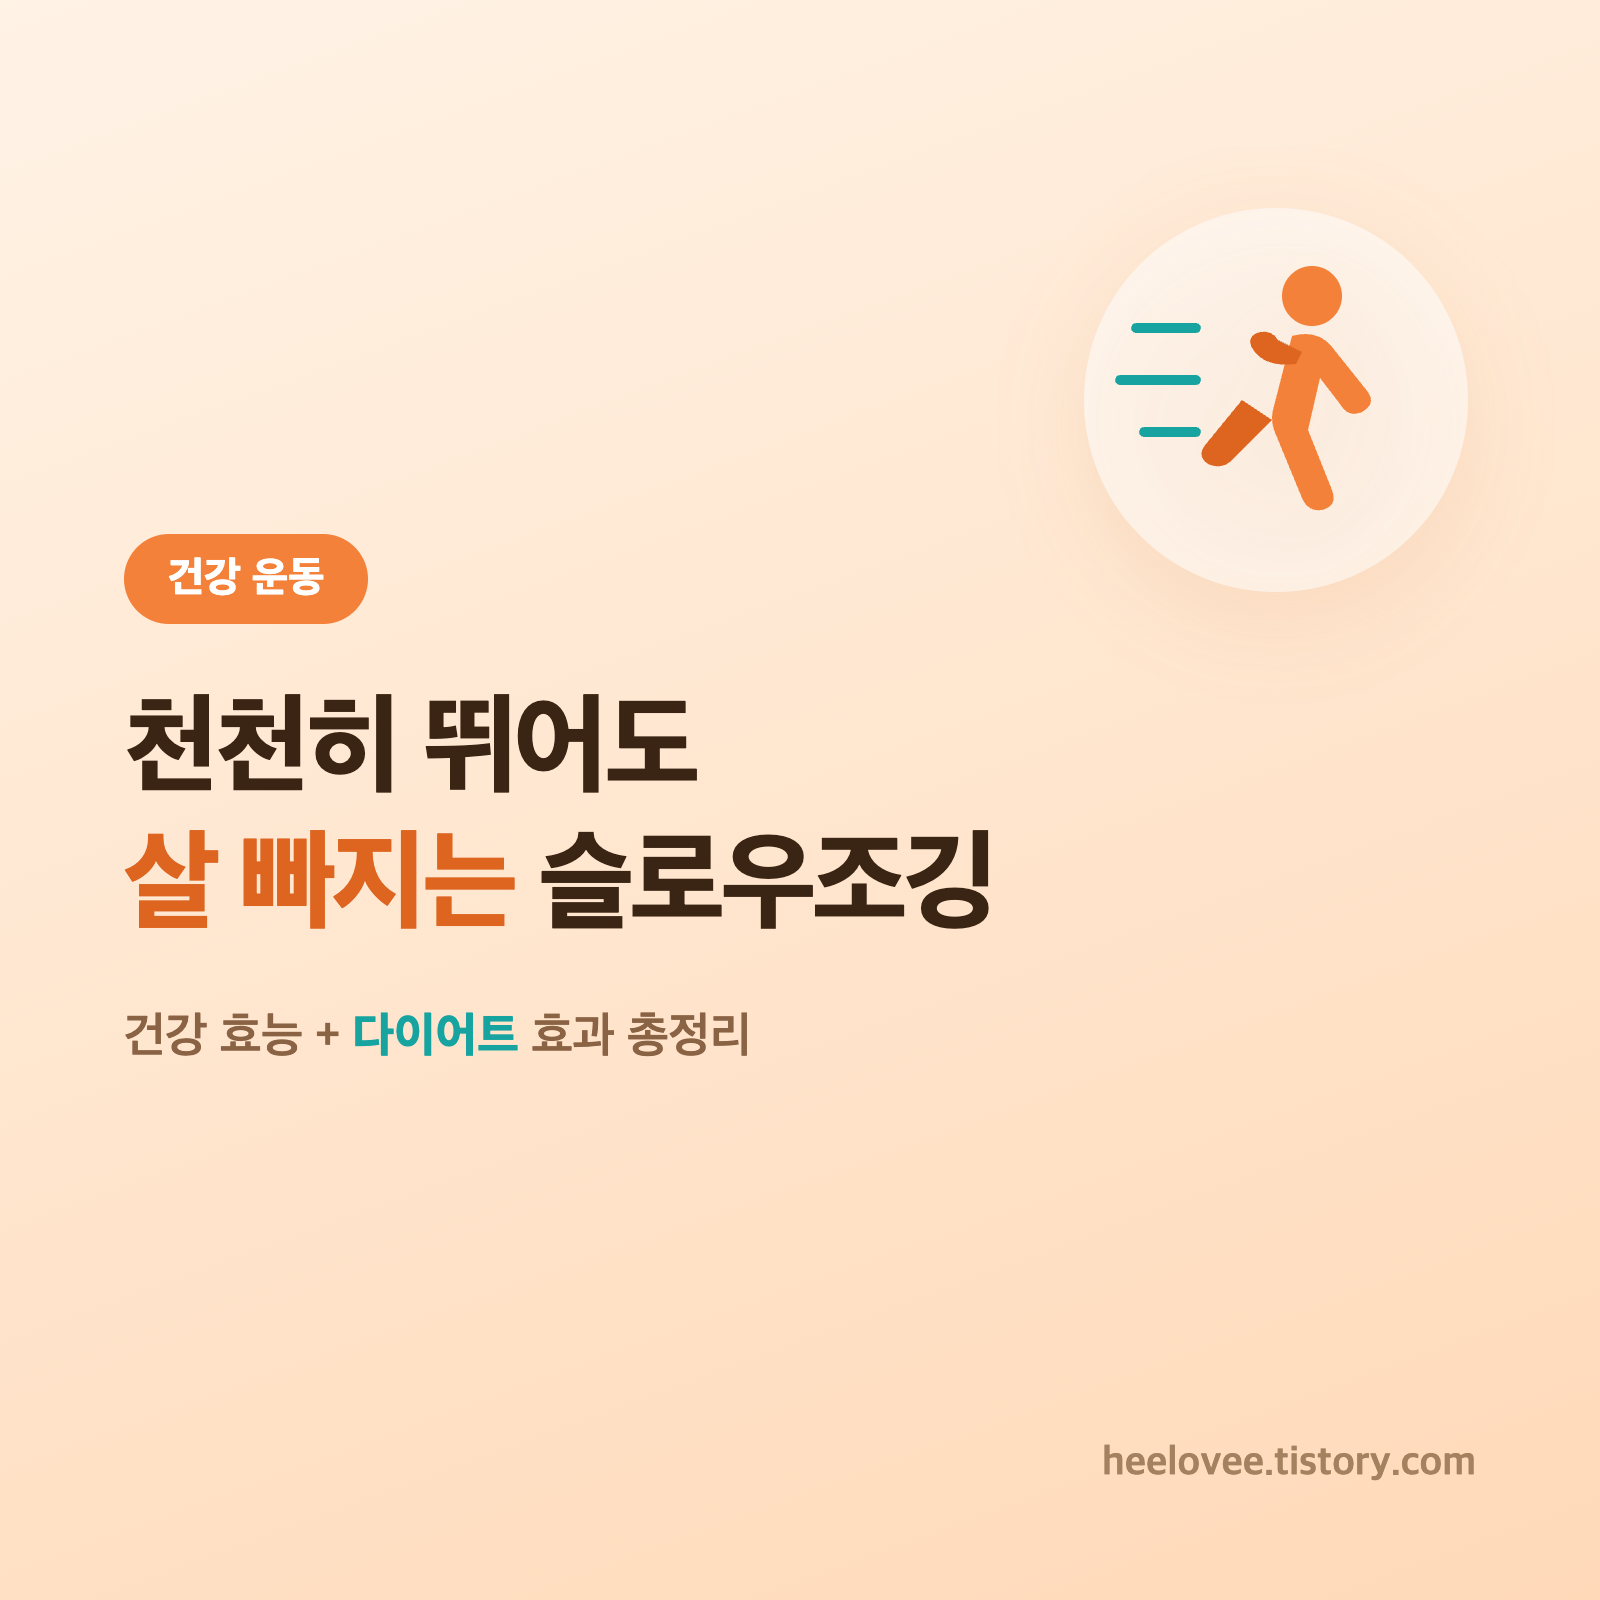
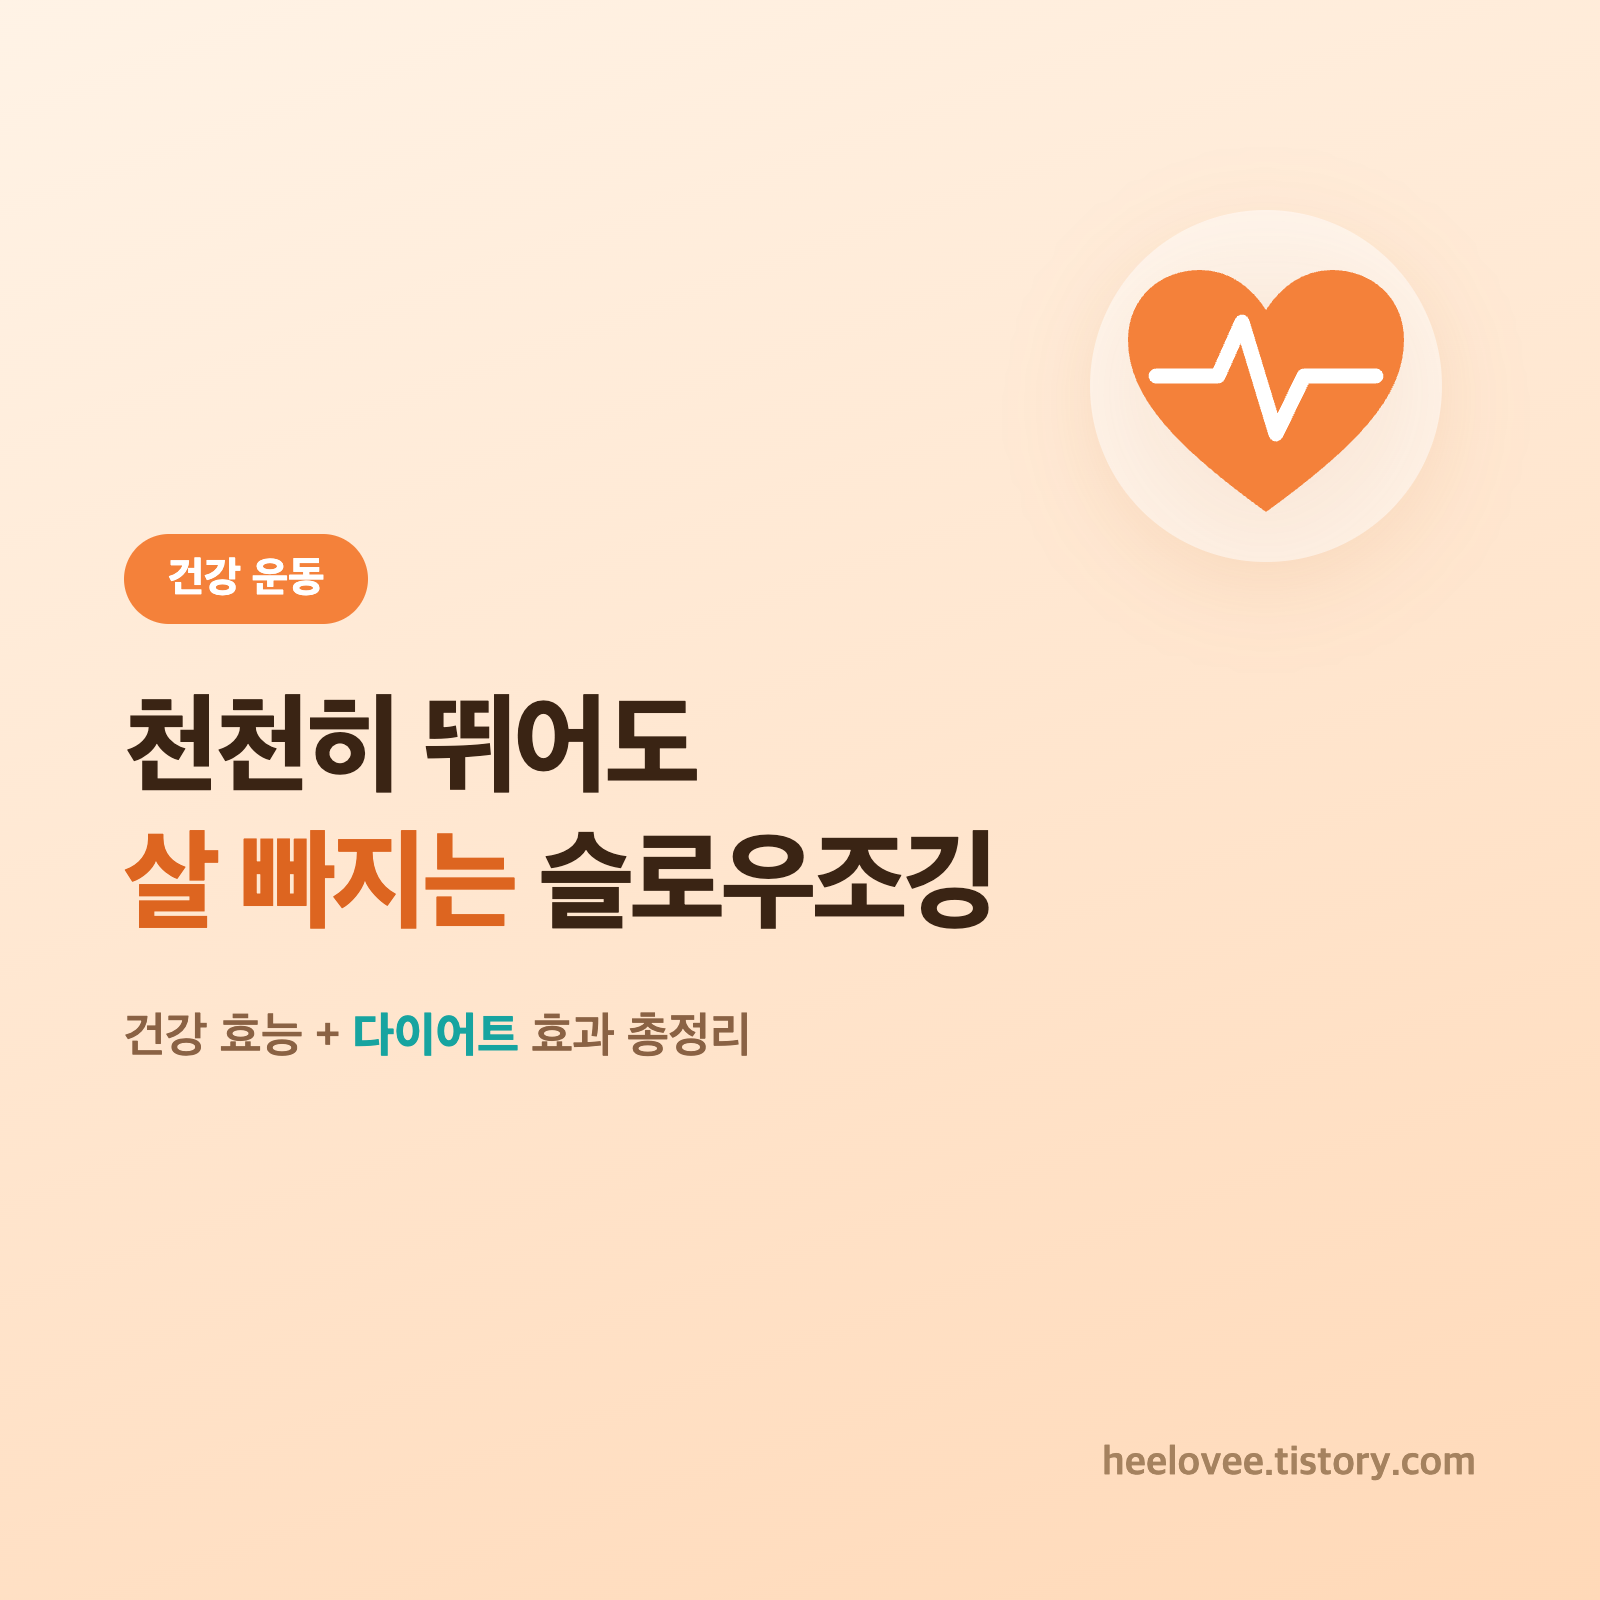
슬로우조깅 썸네일 교체 (러닝 캐릭터 제거 → 하트+심박선)

Changed region(s): [[0.6875, 0.1562, 0.9375, 0.375], [0.6562, 0.25, 0.6875, 0.2812]]

diff --git a/art/tc-slowjog.html b/art/tc-slowjog.html
@@ -18,17 +18,12 @@
 
 <div id="art">
   <div class="ill">
-    <svg width="220" height="220" viewBox="0 0 220 220">
-      <circle cx="110" cy="110" r="96" fill="#ffffff" opacity="0.55"/>
-      <!-- 달리는 사람 픽토그램 -->
-      <circle cx="128" cy="58" r="15" fill="#f4813a"/>
-      <path d="M118,78 q14,-4 22,8 l16,20 q4,6 -3,10 q-7,3 -11,-4 l-10,-13 -6,26 12,30 q3,8 -5,10 q-7,1 -10,-6 l-14,-34 q-2,-6 0,-12 Z" fill="#f4813a"/>
-      <!-- 팔 -->
-      <path d="M120,92 q-16,2 -22,-8 q-3,-6 4,-8 q6,-1 9,4 l12,6 Z" fill="#dd6520"/>
-      <!-- 뒷다리 -->
-      <path d="M108,120 l-20,20 q-5,5 -12,2 q-6,-4 -1,-10 l18,-22 Z" fill="#dd6520"/>
-      <!-- 속도선 -->
-      <path d="M40,74 l30,0 M32,100 l38,0 M44,126 l26,0" stroke="#17a4a0" stroke-width="5" stroke-linecap="round"/>
+    <svg width="230" height="210" viewBox="0 0 230 210">
+      <circle cx="115" cy="103" r="88" fill="#ffffff" opacity="0.5"/>
+      <!-- 하트 -->
+      <path d="M115,166 C71,134 46,109 46,80 C46,59 62,45 82,45 C97,45 108,54 115,65 C122,54 133,45 148,45 C168,45 184,59 184,80 C184,109 159,134 115,166 Z" fill="#f4813a"/>
+      <!-- 심박 펄스선 -->
+      <path d="M60,98 L91,98 L103,71 L120,127 L134,98 L170,98" fill="none" stroke="#ffffff" stroke-width="7.5" stroke-linecap="round" stroke-linejoin="round"/>
     </svg>
   </div>
 
